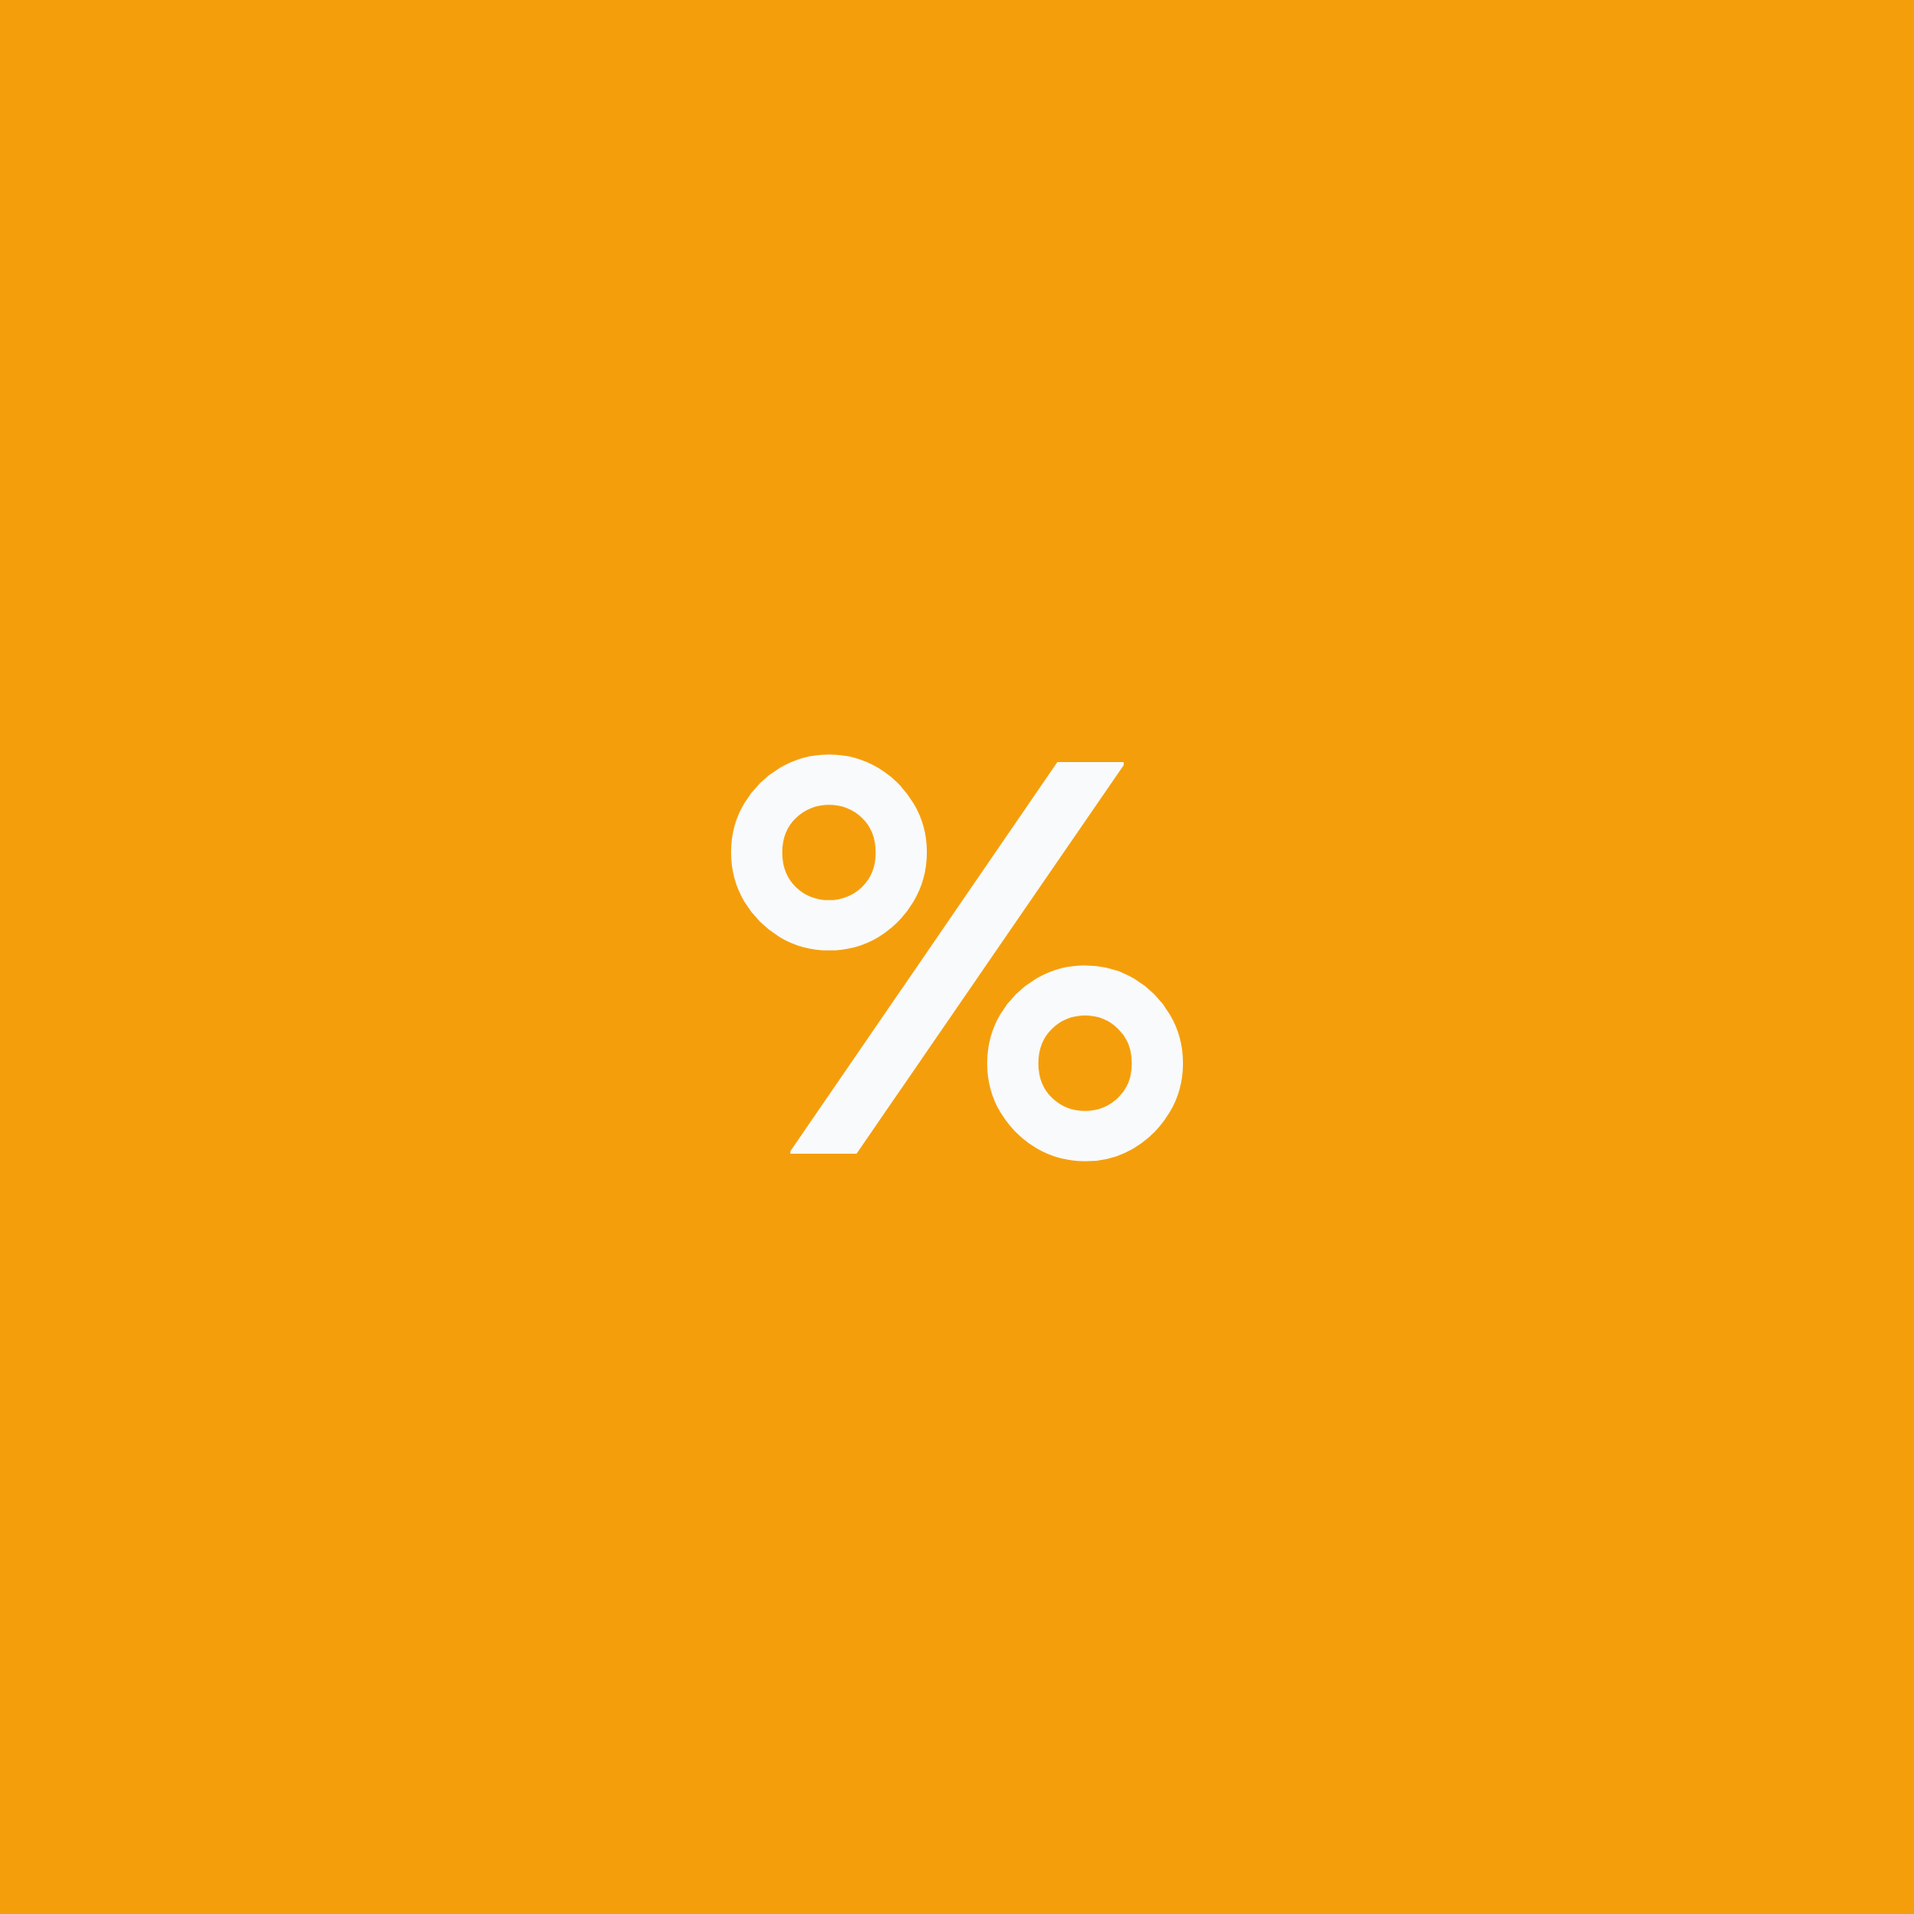
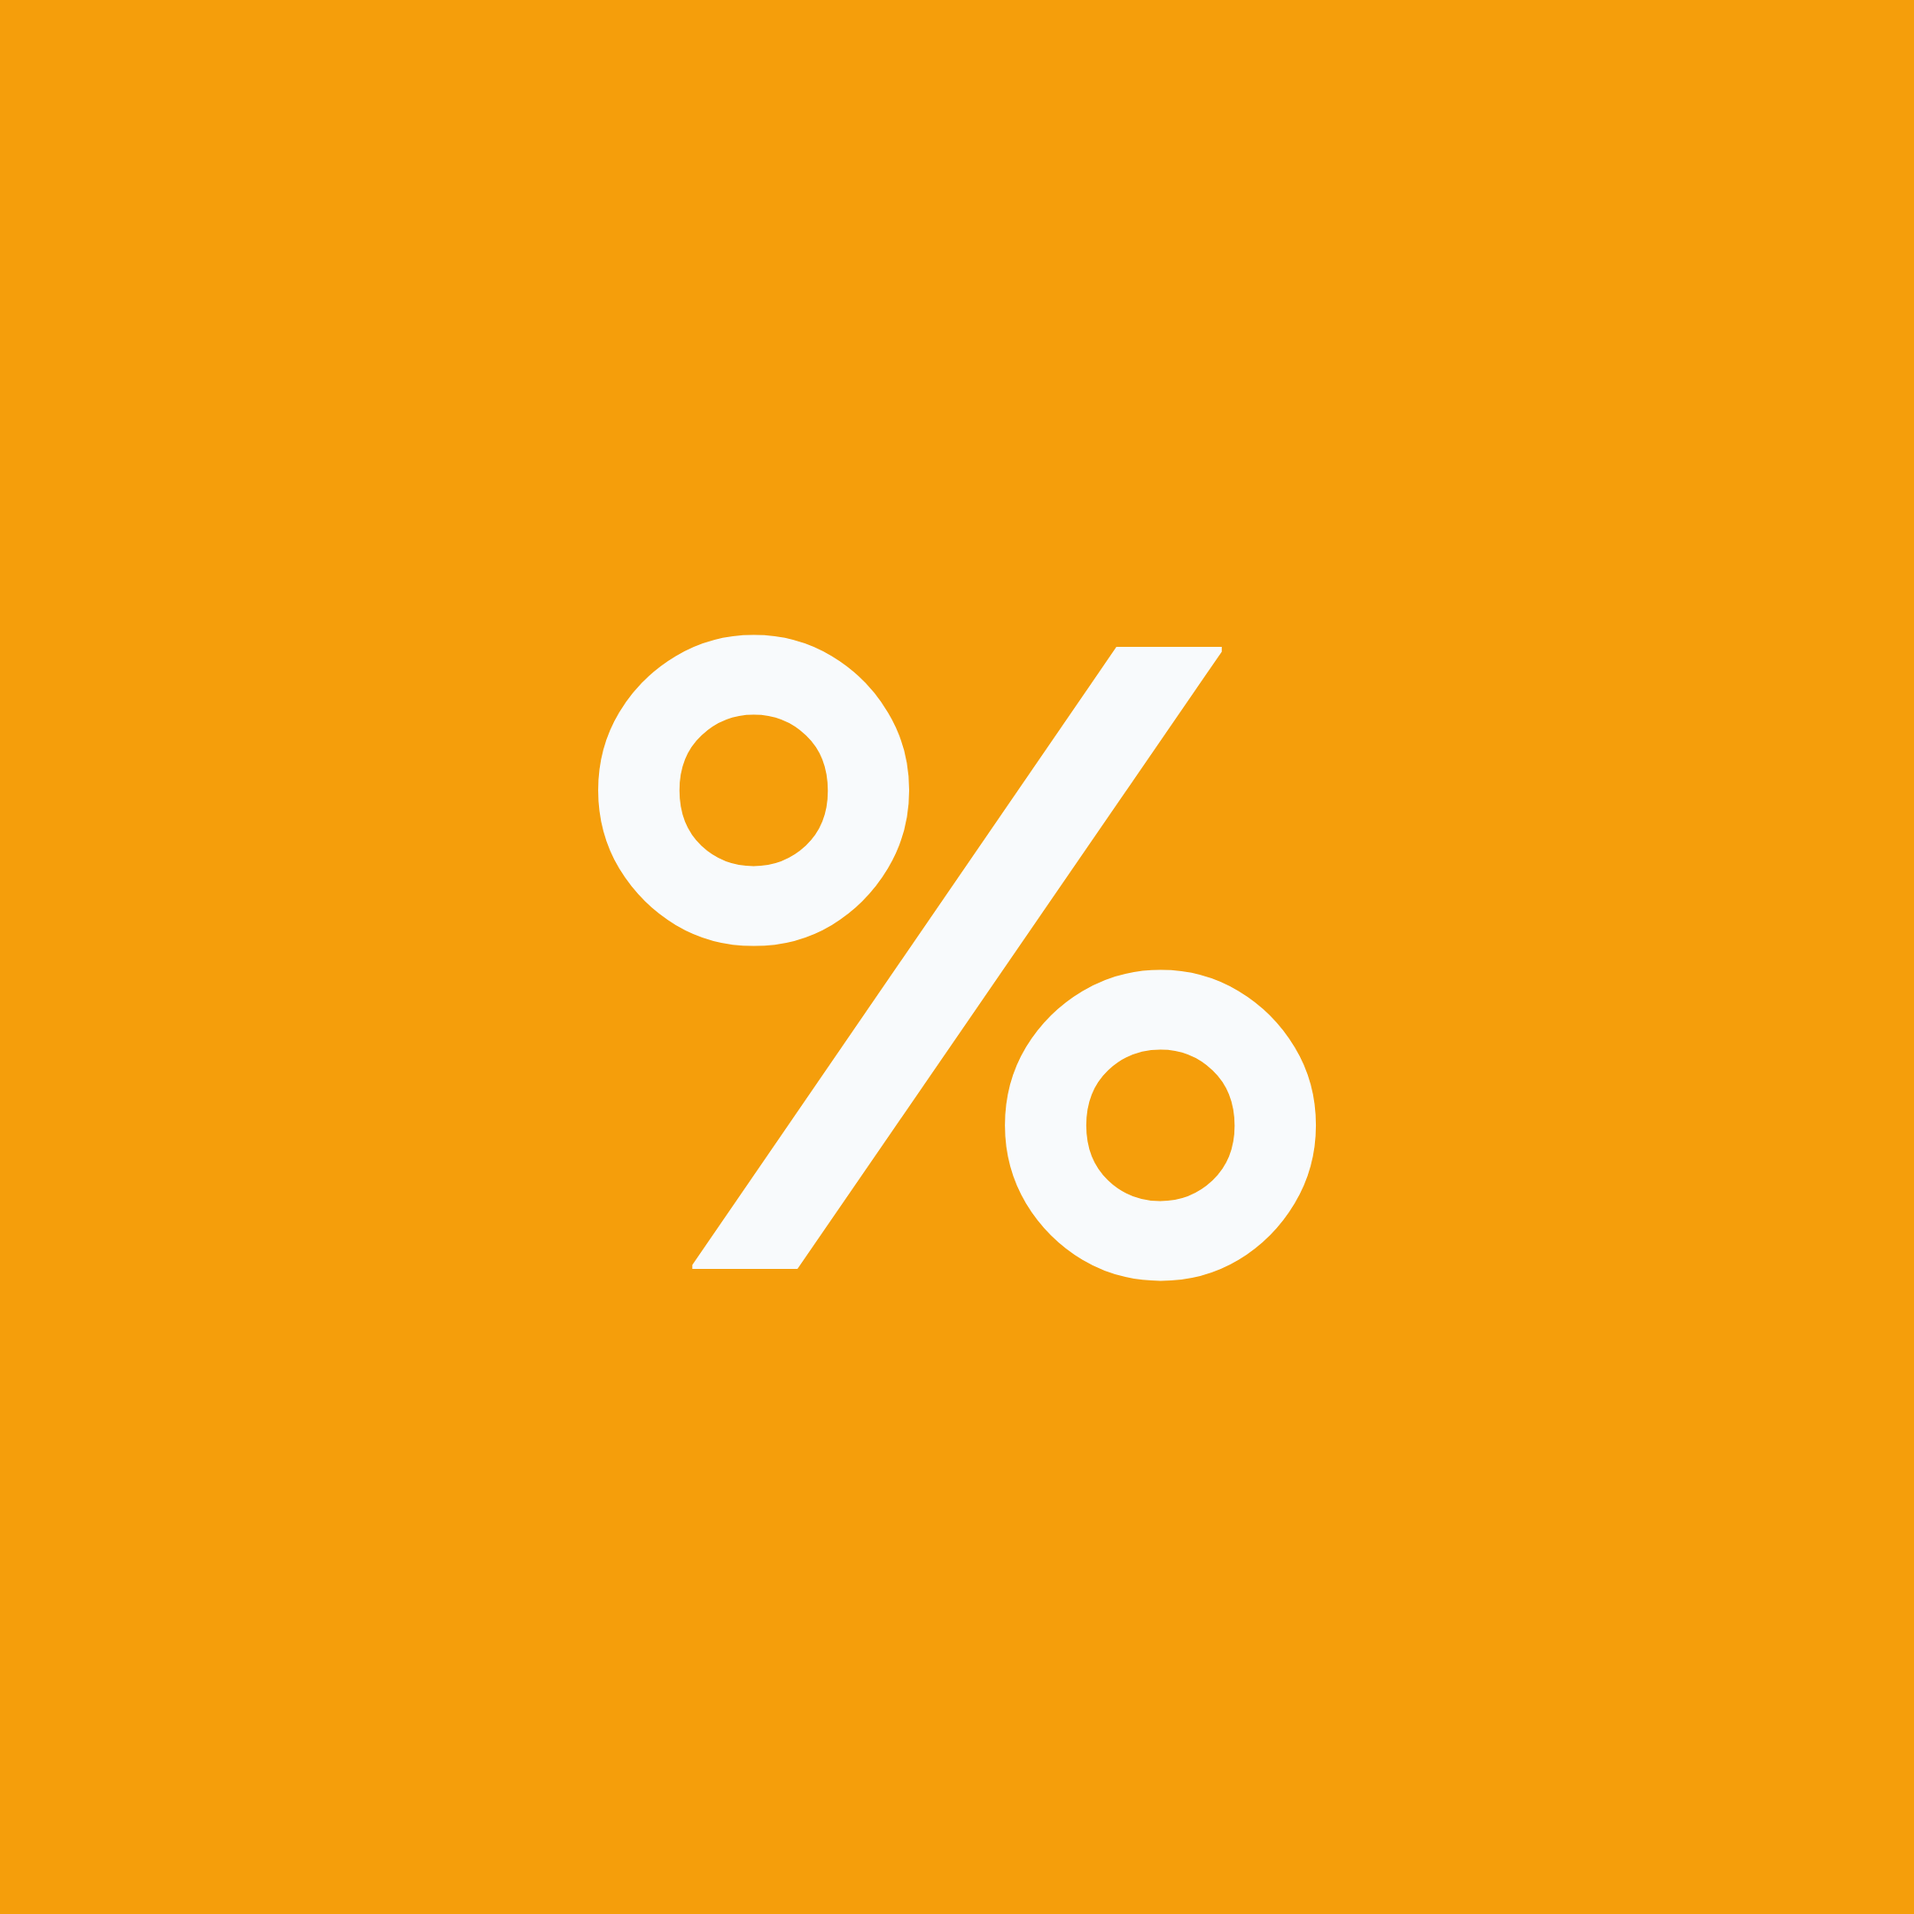
Iguala o tamanho das capas de destaque "Ofertas" e "Dúvidas" às demais
As duas são feitas com um caractere (% e ?) em vez de ícone SVG, e no mesmo
font-size cada glifo desenha uma quantidade bem diferente de tinta: mediando o
render, ocupavam 504 e 448px de extensão contra 744-948px das capas de ícone.
No círculo do destaque isso aparecia como dois ícones visivelmente menores.

render_glifo_capa passa a receber o tamanho por glifo, calibrado medindo o
desenho renderizado (não a caixa de texto): agora 808 e 804px, dentro da faixa
das outras. O deslocamento vertical de centro óptico foi reajustado junto.

As outras quatro capas e todos os stories saem byte a byte idênticos.

Claude-Session: https://claude.ai/code/session_017WZWLEiMQvHUst5KUYseHY

Changed region(s): [[0.3102, 0.3102, 0.7134, 0.6824]]

diff --git a/marketing/instagram/gerar_destaques_instagram.py b/marketing/instagram/gerar_destaques_instagram.py
@@ -75,10 +75,20 @@ def render_capa(nome_arquivo, cor_fundo, icone_svg):
     """, CAPAS_DIR / nome_arquivo, 1080, 1080)
 
 
-def render_glifo_capa(nome_arquivo, cor_fundo, glifo, transform):
+def render_glifo_capa(nome_arquivo, cor_fundo, glifo, deslocamento_y, tamanho):
+    """Capa feita com um caractere em vez de SVG.
+
+    O tamanho é por glifo porque cada caractere ocupa uma fração diferente da própria
+    caixa de fonte: no mesmo font-size, o "?" desenha bem menos tinta que o "%". Com um
+    valor único os dois ficavam visivelmente menores que as capas de ícone SVG (448 e
+    504px de extensão contra 744-948 das outras). Os valores abaixo foram calibrados
+    medindo o desenho renderizado, não a caixa de texto.
+
+    O deslocamento vertical corrige o centro óptico - a caixa da fonte inclui espaço
+    para descendentes que esses glifos não usam."""
     render(f"""
     <div class="canvas" style="background:{cor_fundo}; align-items:center; justify-content:center;">
-        <div style="font-size:340px; line-height:1; font-weight:700; color:{COLORS['paper']}; transform:{transform};">{glifo}</div>
+        <div style="font-size:{tamanho}px; line-height:1; font-weight:700; color:{COLORS['paper']}; transform:translate(0px, {deslocamento_y}px);">{glifo}</div>
     </div>
     """, CAPAS_DIR / nome_arquivo, 1080, 1080)
 
@@ -107,10 +117,10 @@ ICONE_PESSOA = f"""<svg viewBox="0 0 400 400" xmlns="http://www.w3.org/2000/svg"
 
 render_capa("01-como-funciona.png", COLORS["brand"], ICONE_PASSOS)
 render_capa("02-saque-pix.png", COLORS["success"], ICONE_PIX)
-render_glifo_capa("03-ofertas.png", COLORS["highlight"], "%", "translate(0px, -25px)")
+render_glifo_capa("03-ofertas.png", COLORS["highlight"], "%", -40, 540)
 render_capa("04-sem-pegadinha.png", COLORS["brand"], ICONE_CHECK)
 render_capa("05-cadastre-se.png", COLORS["success"], ICONE_PESSOA)
-render_glifo_capa("06-duvidas.png", COLORS["highlight"], "?", "translate(0px, -25px)")
+render_glifo_capa("06-duvidas.png", COLORS["highlight"], "?", -45, 610)
 
 
 # ============================================================
